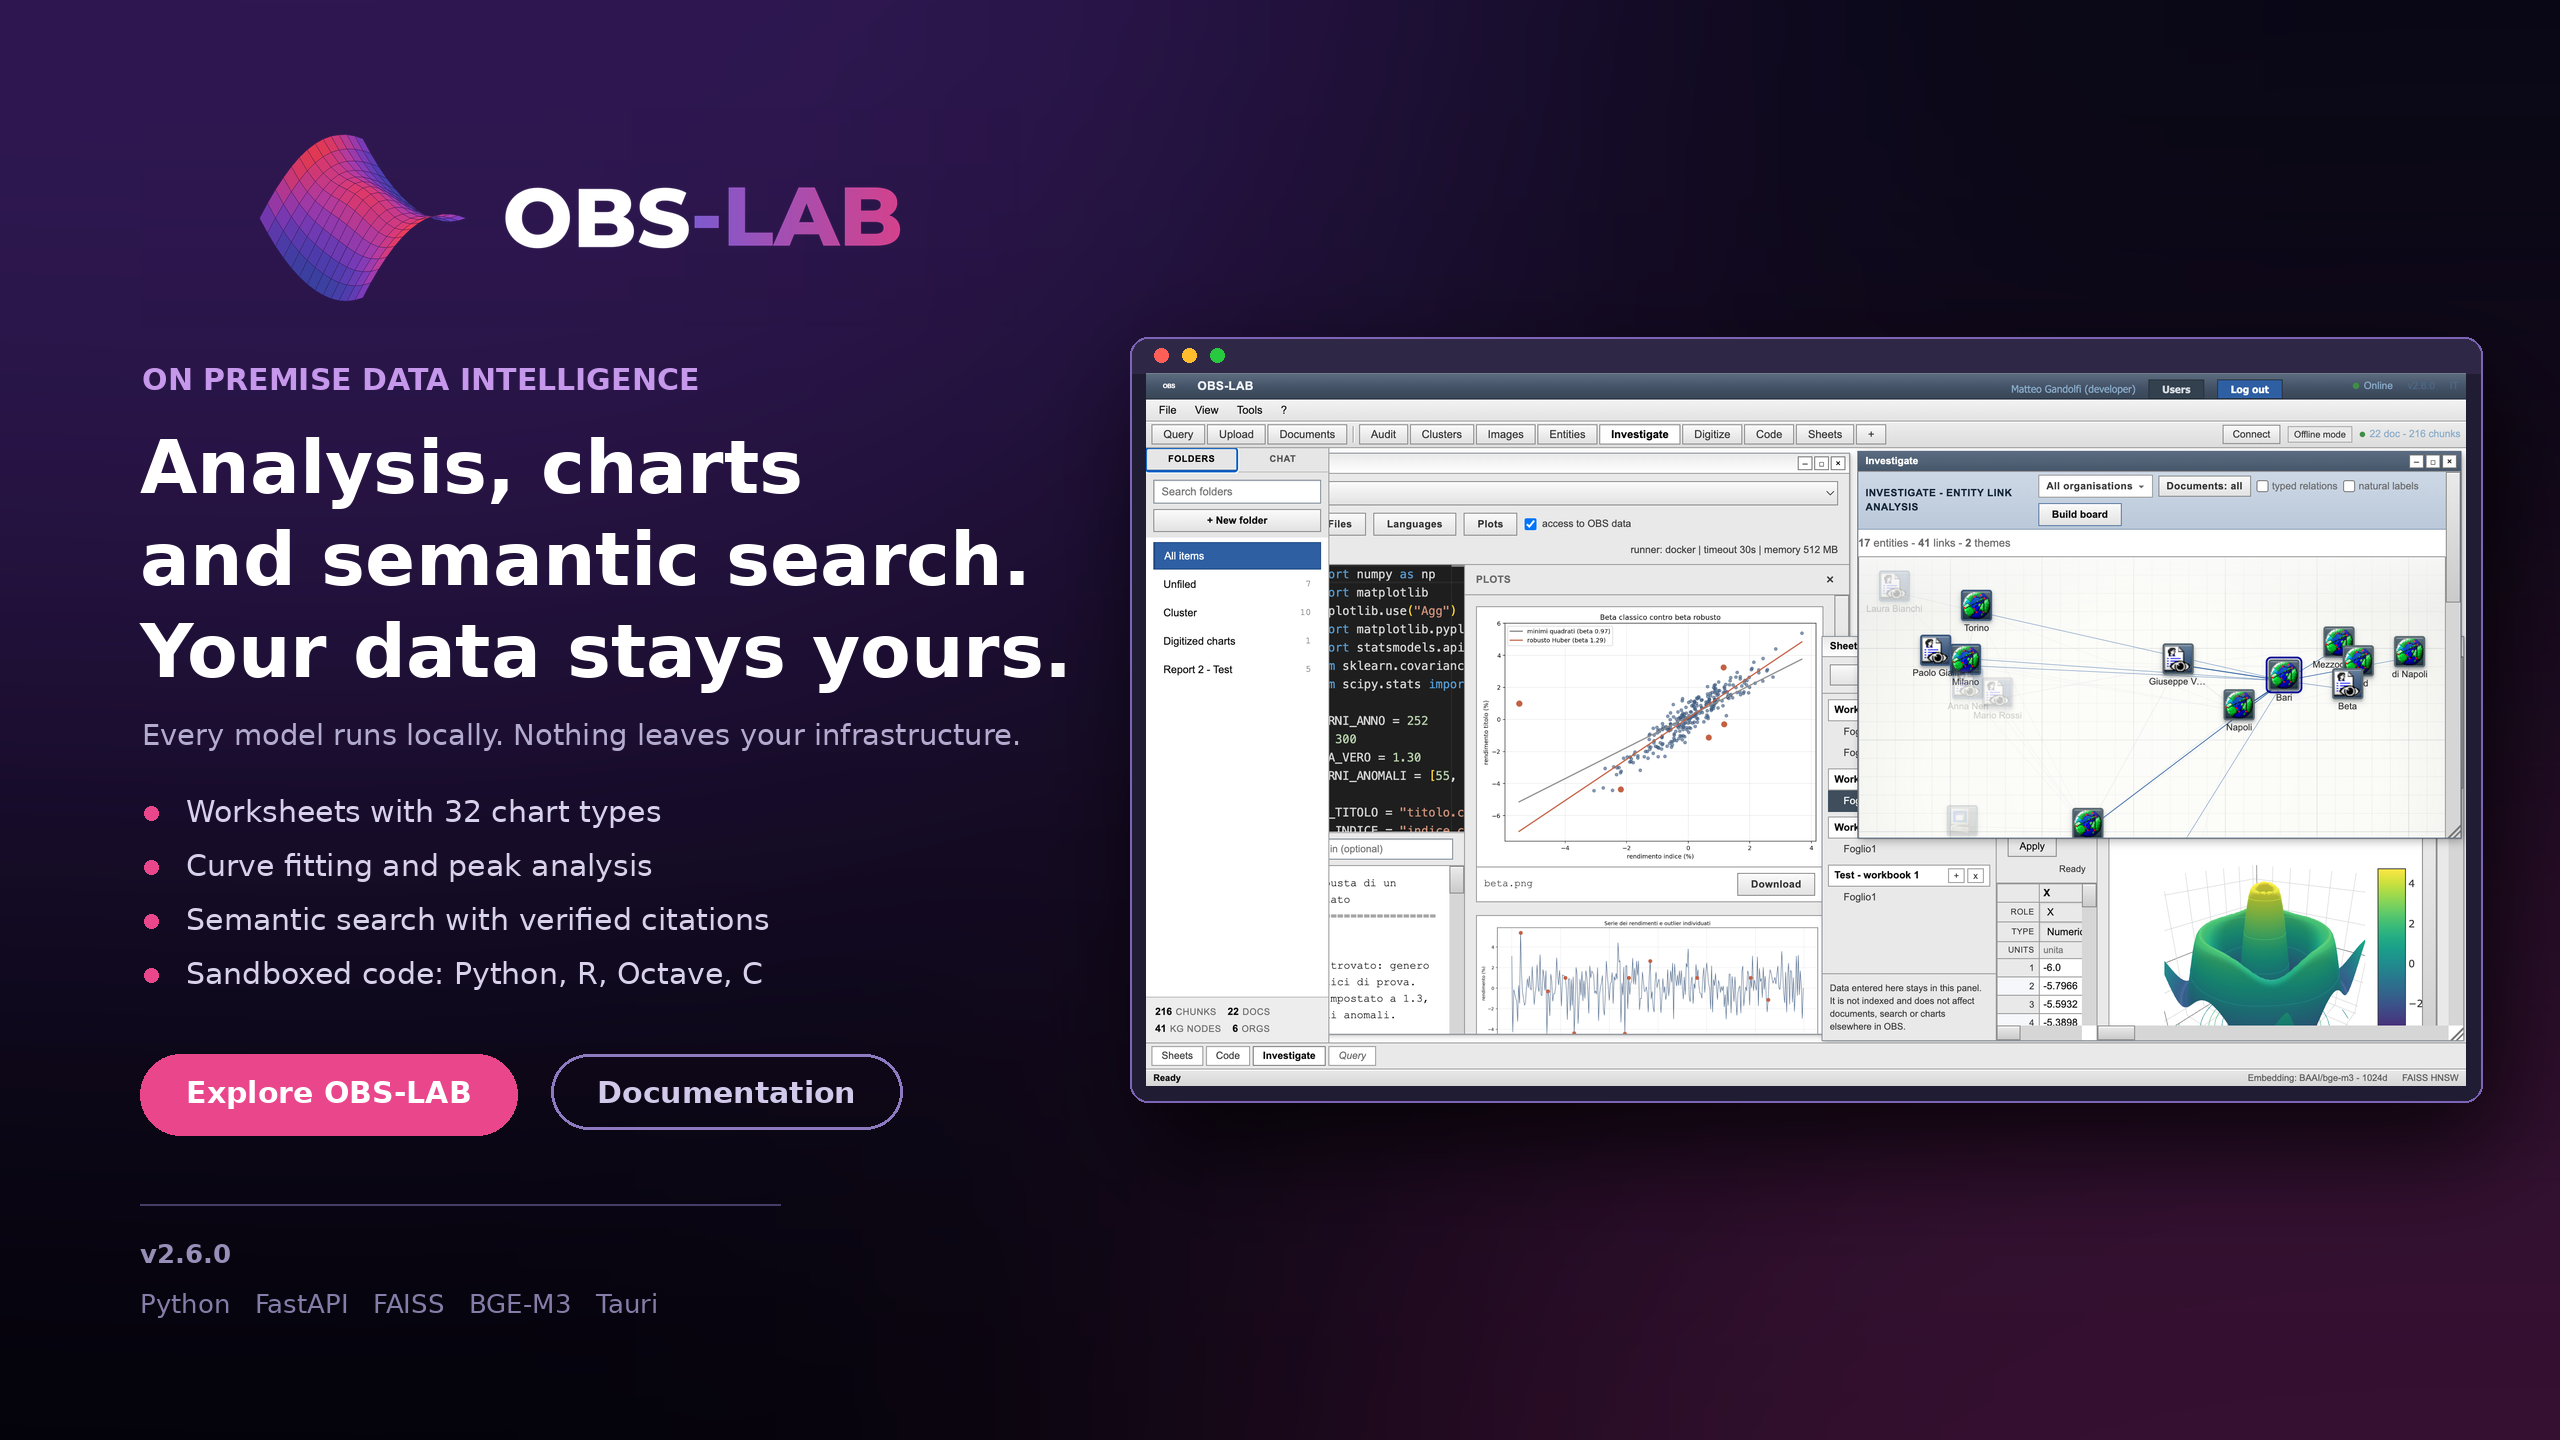
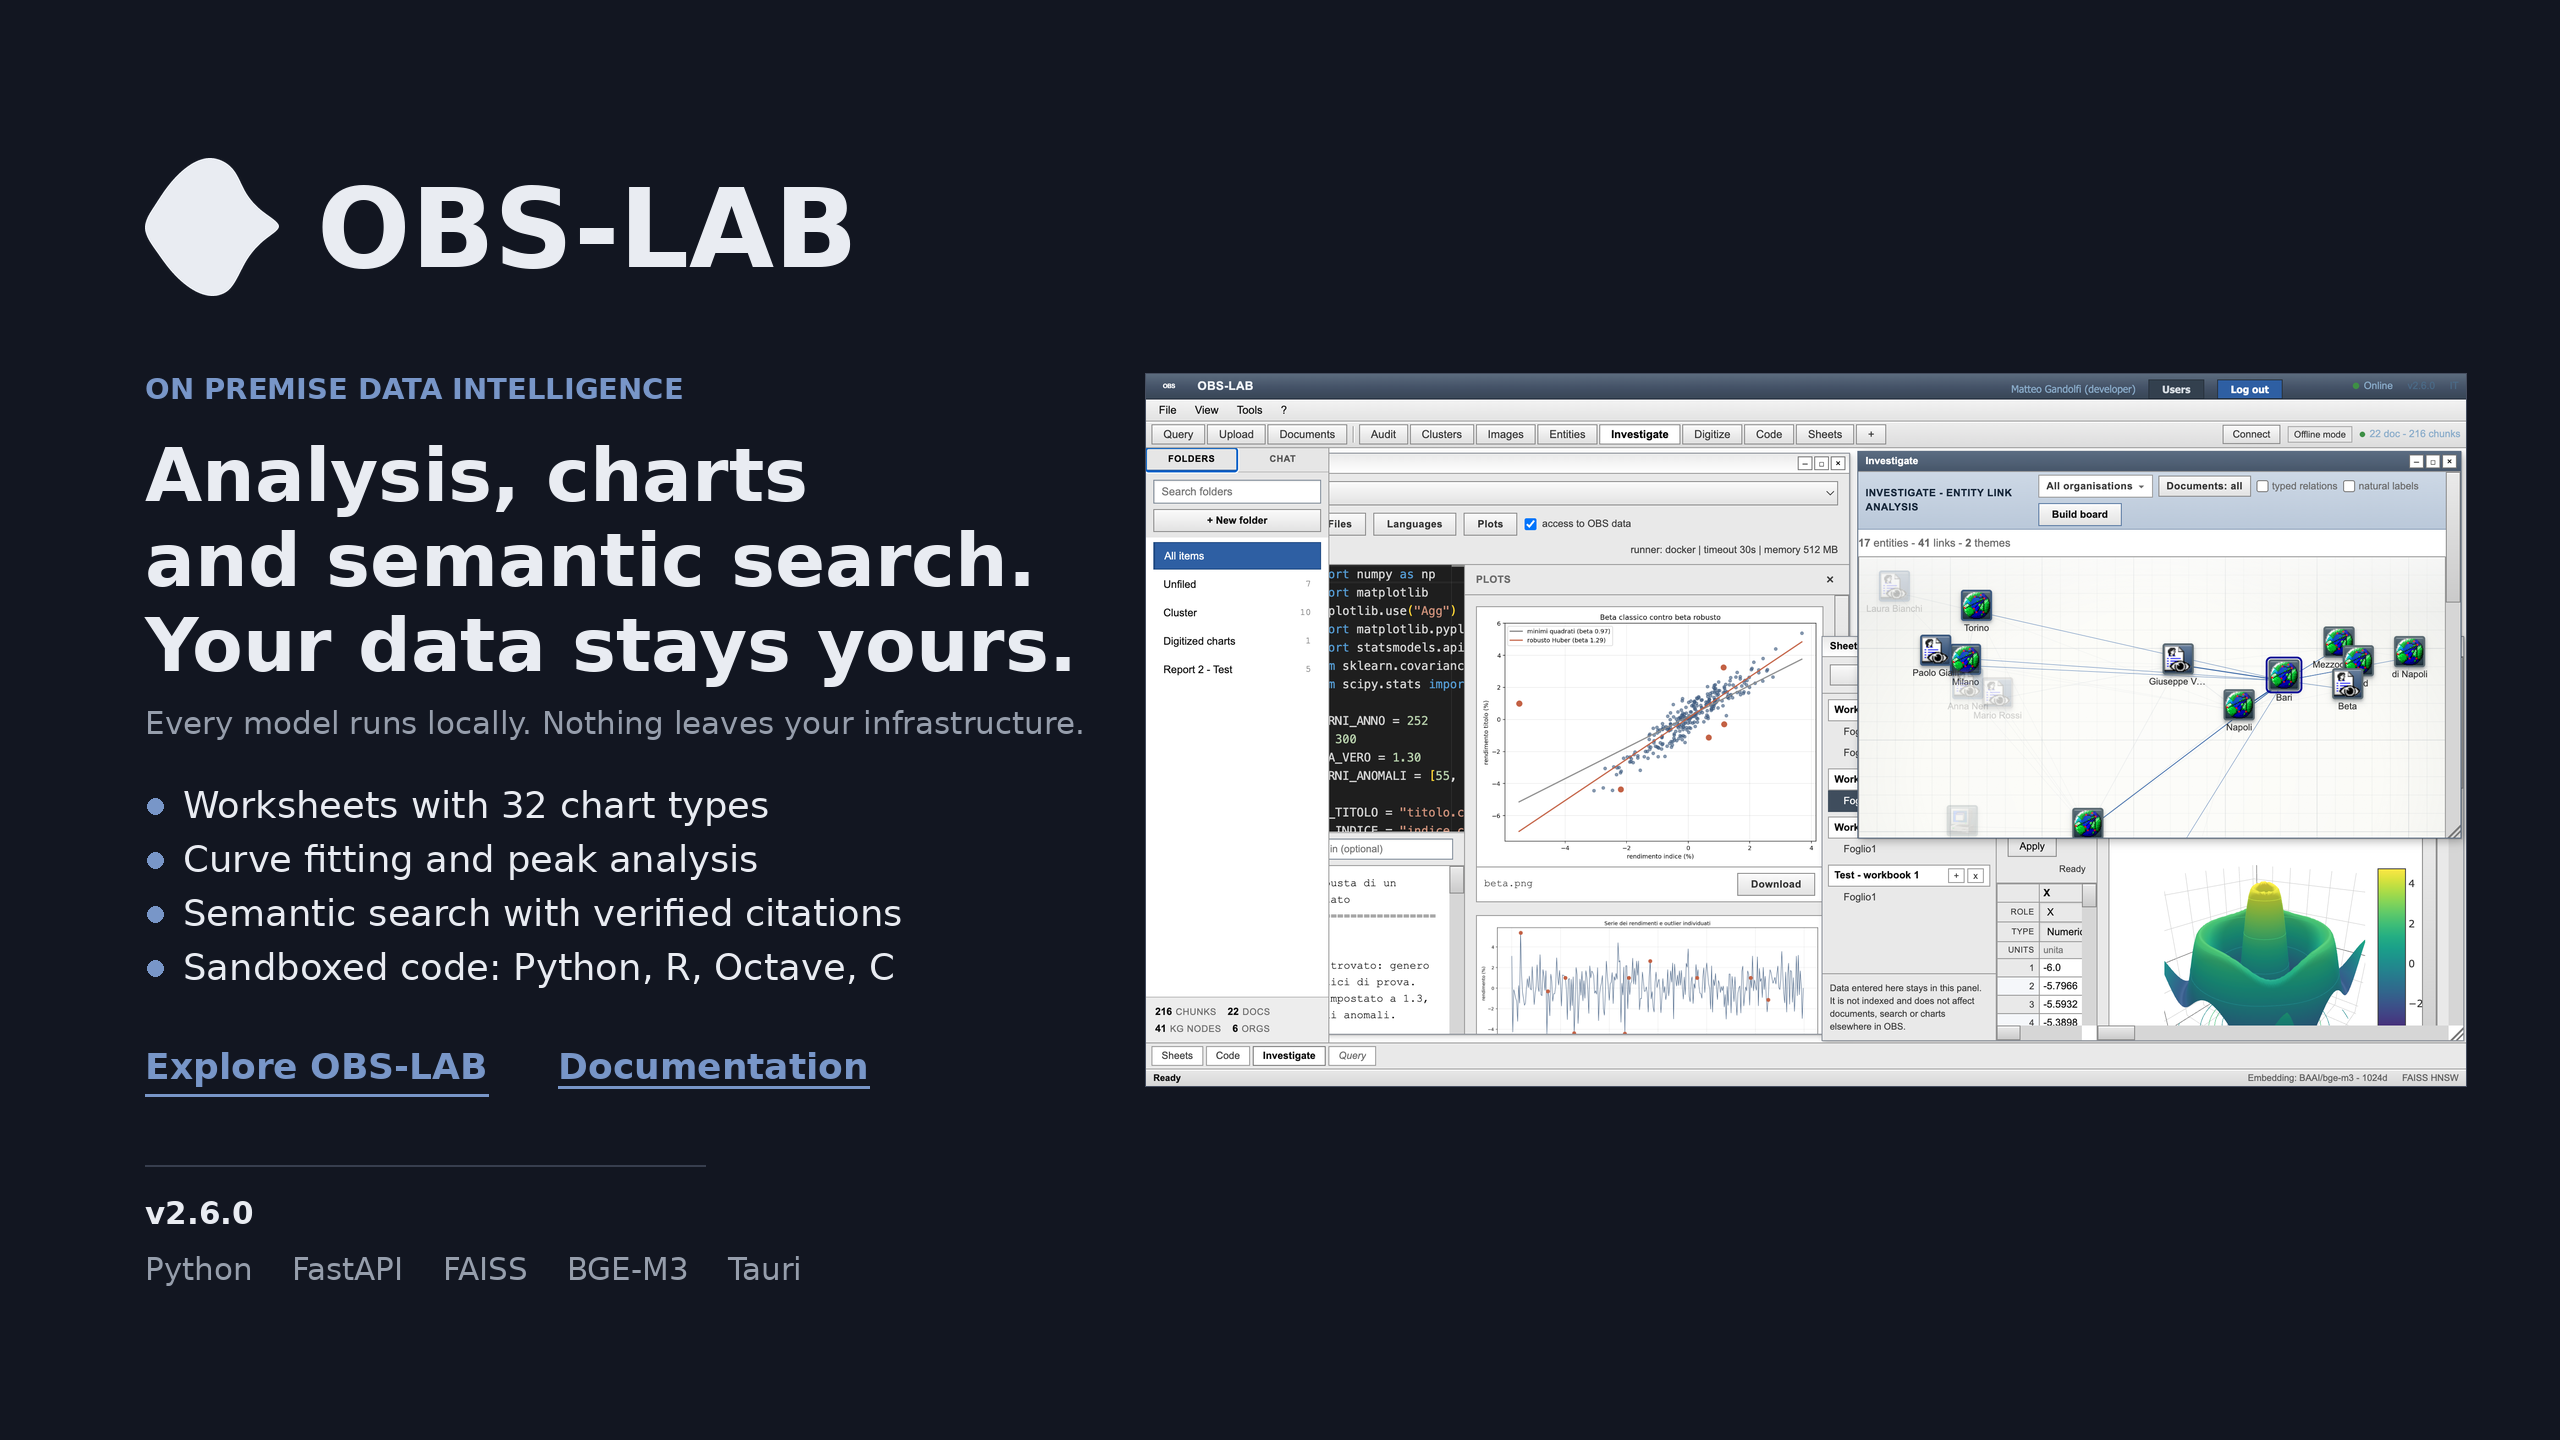
obs-lab site

Changed region(s): [[0.0, 0.0, 0.9688, 0.6875], [0.625, 0.75, 1.0, 1.0], [0.0312, 0.7188, 0.3438, 0.9062]]

diff --git a/index.html b/index.html
@@ -81,9 +81,9 @@
     <div class="right">
       <div class="slides" id="heroSlides">
         <div class="frame">
-          <img class="on" src="img/mockup/obs_mockup_en_2.png" alt="Worksheets, plotting and entity analysis">
-          <img src="img/mockup/obs_mockup_en_3.png" alt="Image analysis and chart digitiser">
-          <img src="img/mockup/obs_mockup_en_1.png" alt="Documents, audit trail and correlation matrix">
+          <img class="on" src="img/mockup/obs_mockup_en_4.png" alt="obs_mockup_en_4">
+          <img src="img/mockup/obs_mockup_en_2.png" alt="obs_mockup_en_2">
+          <img src="img/mockup/obs_mockup_en_1.png" alt="obs_mockup_en_1">
         </div>
         <div class="dots" id="heroDots">
           <button type="button" class="on" onclick="slideGo(0)"></button>
@@ -431,7 +431,7 @@
 
 <div class="strip">
   <div class="wrap">
-    <img src="img/mockup/obs_mockup_en_3.png" alt="Image analysis and chart digitiser">
+    <img src="img/mockup/obs_mockup_en_3.png" alt="obs_mockup_en_3">
     <div class="txt">
       <h2>Recover numbers from a chart image</h2>
       <p>Load a chart image, set the axis reference points, then click the data points
